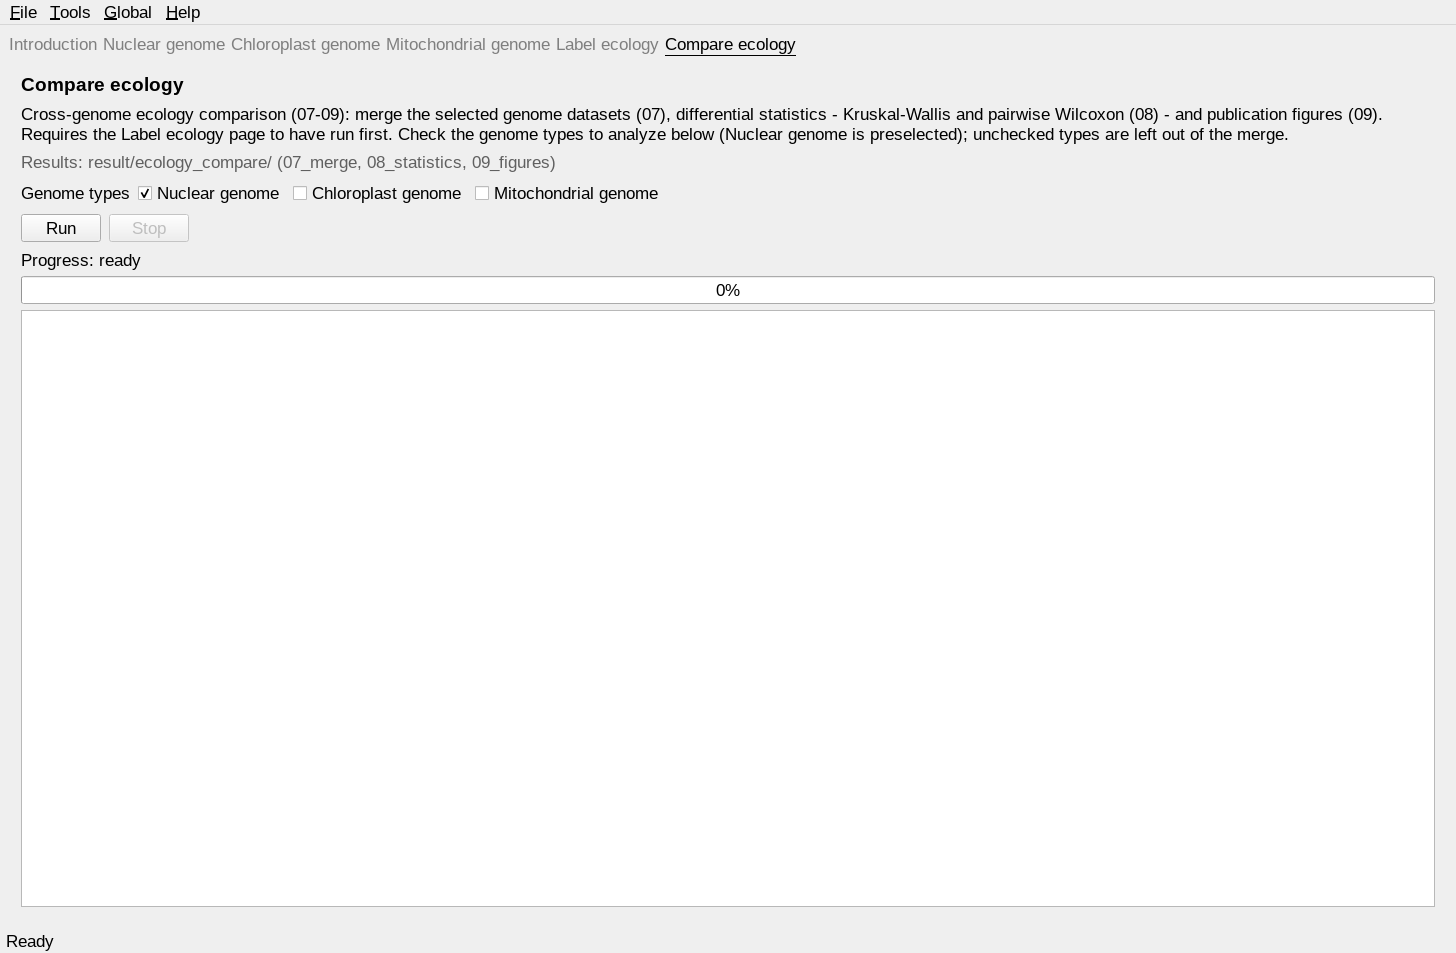
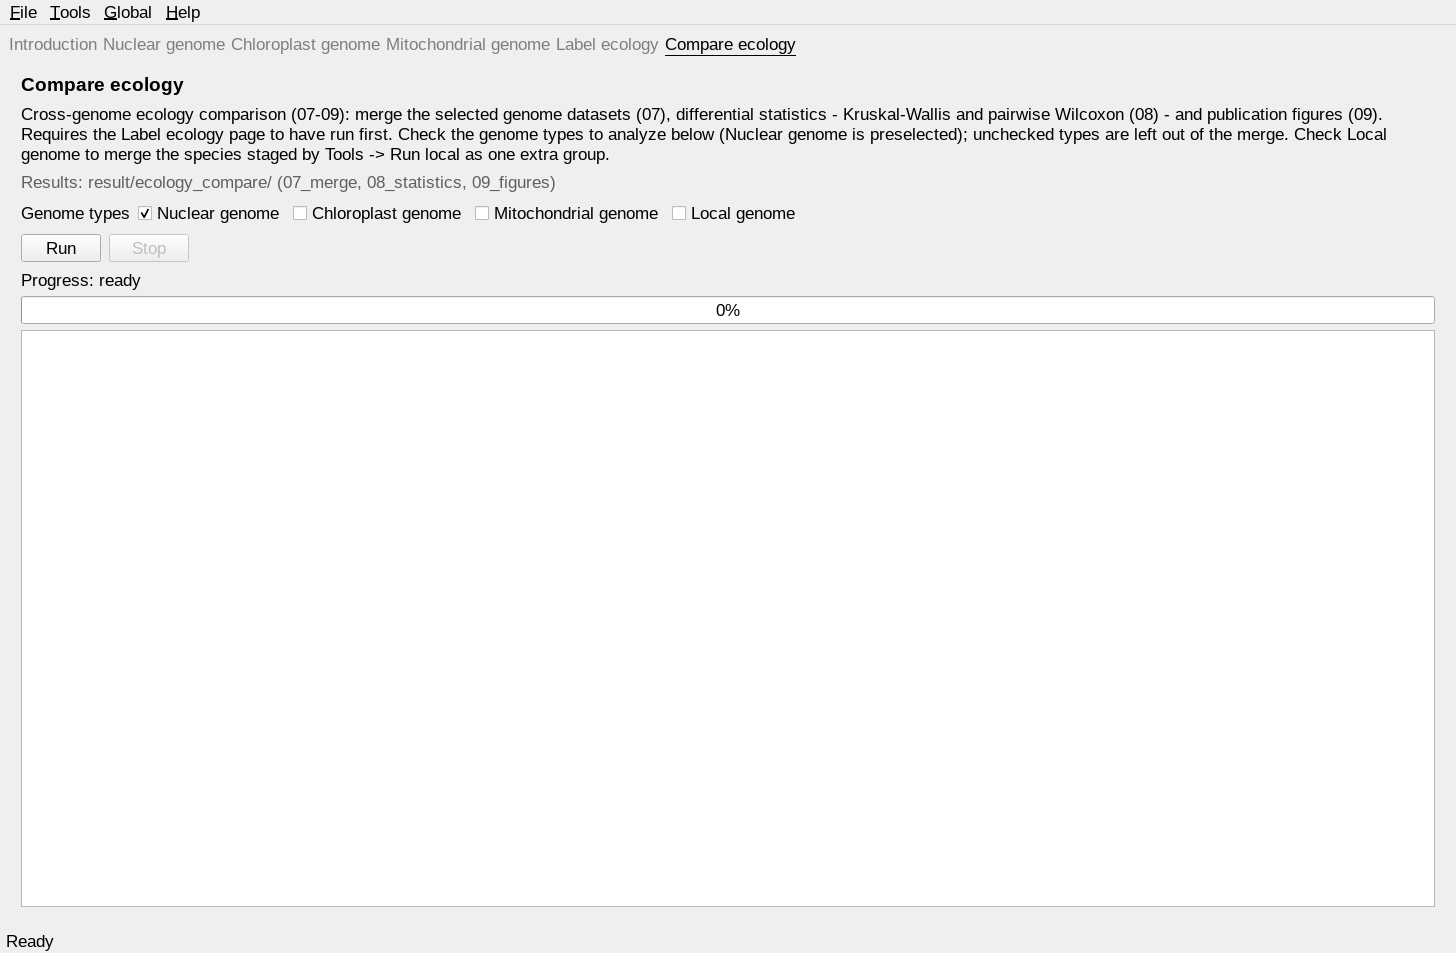
docs: v1.4.0 Local genome merging + publication-grade Compare ecology outputs

Changed region(s): [[0.0, 0.1522, 0.989, 0.3347], [0.8963, 0.1217, 0.9581, 0.1522]]

diff --git a/docs/conf.py b/docs/conf.py
@@ -9,8 +9,8 @@ author = "sunshadeCisseeker developers"
 copyright = "2026, sunshadeCisseeker developers"
 
 # The short X.Y version and the full release version.
-version = "v1.3.69"
-release = "v1.3.69"
+version = "v1.4.0"
+release = "v1.4.0"
 
 extensions = [
     "sphinx.ext.autosectionlabel",

diff --git a/docs/content/Ecology comparison.rst b/docs/content/Ecology comparison.rst
@@ -11,7 +11,8 @@ Label ecology (step 06)
 
 A standalone step between the per-genome pipelines and the comparison: it
 reads ``config/species_ecology_labels.xlsx`` — one sheet per genome type
-(``nuclear_genome`` / ``chloroplast_genome`` / ``mitochondrial_genome``;
+(``nuclear_genome`` / ``chloroplast_genome`` / ``mitochondrial_genome`` and,
+since v1.4.0, an optional ``local_genome`` sheet for the Run-local species;
 older single-sheet files apply to every type) — and the 05 id maps of the
 selected genome types, and writes ``species_ecology_assignment.xlsx``
 (``Assignment`` / ``Group_counts`` / ``Unlabeled`` sheets) under
@@ -20,18 +21,26 @@ source of ecology labels for steps 07–09, so label changes only require
 re-running this step and then 07–09. Unlabelled species are listed in the
 ``Unlabeled`` sheet and never enter the statistics.
 
-The **Label ecology** GUI page offers checkboxes for the three genome types:
-unchecked types are skipped (the run calls
+The **Label ecology** GUI page offers checkboxes for the three genome types
+plus **Local genome** (v1.4.0): unchecked types are skipped (the run calls
 ``run_all.sh label_ecology --label-types=<comma list>``; the command line
-accepts the same flag).
+accepts the same flag). *Local genome* labels the species staged by
+**Tools → Run local** (``result/local/<species>/``) as the pseudo genome
+type ``local_genome``; give it labels by adding a ``local_genome`` sheet to
+the label workbook. Without the flag, only the three physical types are
+labeled.
 
 Step 07 — merge
 ---------------
 
 The **Compare ecology** GUI page offers the same genome-type checkboxes as
-Label ecology (``run_all.sh ecology --ecology-types=<comma list>``): only
-the checked types are merged, and steps 08–09 follow the types present in
-the master table, so the comparison always matches the labeling selection.
+Label ecology, including **Local genome** (``run_all.sh ecology
+--ecology-types=<comma list>``): only the checked types are merged, and
+steps 08–09 follow the types present in the master table, so the comparison
+always matches the labeling selection. *Local genome* merges the isolated
+Run-local outputs under ``result/local/<species>/`` into the master table as
+``local_genome`` rows — every staged species joins the comparison alongside
+the NCBI/custom types.
 
 1. For each selected genome type, merge the per-species element counts
    (``Species_element_counts``) with the per-species **total promoter
@@ -67,6 +76,27 @@ tables in ``ecology_differential_results.xlsx``, plus
 ``ecology_differential_volcano.pdf`` (volcano of pairwise tests + boxplots of
 the top significant elements).
 
+Publication-ready tables (v1.4.0)
+~~~~~~~~~~~~~~~~~~~~~~~~~~~~~~~~~
+
+The same workbook additionally carries five export-ready sheets for a
+paper's supplementary tables, with descriptive column names, rows ordered
+by significance, rounded numerics and star-notation significance
+(``*`` q < 0.05, ``**`` q < 0.01, ``***`` q < 0.001, ``n.s.``):
+
+* ``Publication_Kruskal`` — Element, Functional group, Genome type,
+  Kruskal-Wallis chi-squared, df, group/species counts, P value,
+  BH-adjusted q, Significance;
+* ``Publication_Pairwise`` — per group pair: medians of both groups,
+  log2 fold change, Wilcoxon W, P value, BH-adjusted q, Significance;
+* ``Publication_Groups`` — per-group medians/means and species counts;
+* ``Publication_ratio_kruskal`` / ``Publication_ratio`` — the same layout
+  for the Box 4 / G-box ratio tests.
+
+The canonical sheets keep their full-precision machine-readable columns and
+additionally carry ``q_value``, ``significance`` and formatted ``p_value_text``
+/ ``q_value_text`` columns.
+
 Box 4 / G-box ratio analysis (light-response hypothesis)
 ---------------------------------------------------------
 
@@ -100,18 +130,29 @@ direction and strength of the trend can be read directly from
 Step 09 — publication figures
 -----------------------------
 
-A four-panel figure (``ecology_figures.pdf``):
+``ecology_figures.pdf`` is a single **portrait A4 figure** whose panels
+follow a logical analytical progression (v1.4.0):
 
-1. **PCA** of species × (compartment × element density) profiles
-   (``log1p``-transformed, scaled) — do the three ecology groups separate
-   along PC1/PC2?
-2. **Heatmap** of the 40 most variable elements, species rows ordered by
-   hierarchical clustering, values z-scored.
-3. **Functional-group composition** — stacked fractions of element density
-   per ecology group, using the ``functional_group`` column of the motif
-   library (hormone / light / stress / development / core / ...).
-4. **Key elements** — boxplots of the six elements with the smallest
-   Kruskal-Wallis p-values.
+1. **(a) Global differential landscape** — a volcano plot of every pairwise
+   test (log2 fold change vs ``-log10`` BH-adjusted q) with the significant
+   tests highlighted and the significant/total count annotated.
+2. **(b) Top differential elements** — boxplots of the up-to-six most
+   significant elements (ordered by BH-adjusted q), with the pairwise
+   Wilcoxon **q-value brackets and asterisks drawn on the panels** and the
+   per-element Kruskal-Wallis P in each panel title.
+3. **(c) Box 4 / G-box ratio test** — the per-species ratio per ecology
+   group, with the ratio statistics (Kruskal-Wallis P, pairwise q brackets)
+   drawn on the panel.
+4. **(d) Box 4 / G-box count decomposition** — the per-species counts of the
+   two elements, showing which of them drives the ratio, with per-element
+   Kruskal-Wallis P values annotated.
+
+``box4_gbox_ratio.pdf`` is a focused two-panel portrait A4 figure (panels
+c + d) dedicated to the light-response hypothesis. Panels share one
+colourblind-safe palette (sun orange, facultative blue, shade green), Arial
+typography, and the asterisk thresholds are restated in each figure caption.
+Count/density/ratio axes use a pseudo-log scale (linear below 1) so zero
+values stay visible.
 
 Interpreting the results
 ------------------------
@@ -119,7 +160,10 @@ Interpreting the results
 * ``Kruskal_Wallis`` — a small BH-adjusted p means the three ecology groups
   differ in that element's density.
 * ``Pairwise_Wilcoxon`` — per group pair: ``median1``/``median2``,
-  ``log2FC``, ``p_value``, ``bh_padj``, ``significant`` (BH < 0.05).
+  ``log2FC``, ``p_value``, ``bh_padj``/``q_value``, ``significant``
+  (BH < 0.05) and the ``significance`` star column.
+* The ``Publication_*`` sheets are the copy-paste-ready versions of those
+  tables for a manuscript's supplementary tables.
 * Raise ``min_group_n`` for stricter comparisons (fewer, more robust tests).
 * ``element_density`` is a per-1000-promoter rate: values are comparable
   across species and compartments.

diff --git a/docs/content/Changelog.rst b/docs/content/Changelog.rst
@@ -1,6 +1,40 @@
 Changelog
 =========
 
+1.4.0 — Local genome merging + publication-grade Compare ecology outputs
+--------------------------------------------------------------------------
+
+* **Local genome checkbox**: the Label ecology and Compare ecology pages
+  gain a *Local genome* checkbox. When checked, the species staged by
+  **Tools → Run local** (``result/local/<species>/``) join the ecology
+  pipeline as the pseudo genome type ``local_genome``: step 06 labels them
+  (from an optional ``local_genome`` sheet in
+  ``config/species_ecology_labels.xlsx``), step 07 merges their 05/06
+  outputs into the master table, and steps 08/09 treat them like any other
+  genome type. Off by default; flag-less runs keep the classic three-type
+  behaviour.
+* **Publication-grade statistics tables (step 08)**: the results workbook
+  gains five export-ready sheets for a paper's supplementary tables -
+  ``Publication_Kruskal``, ``Publication_Pairwise``, ``Publication_Groups``,
+  ``Publication_ratio_kruskal`` and ``Publication_ratio`` - with descriptive
+  column names, rows ordered by significance, rounded numerics, and
+  star-notation significance (``*``/``**``/``***``/``n.s.``). The canonical
+  sheets keep their full-precision machine-readable columns and additionally
+  carry ``q_value``, ``significance`` and formatted ``*_text`` p-value
+  columns.
+* **Publication-grade figure (step 09)**: ``ecology_figures.pdf`` is now a
+  single portrait A4 figure with four panels in a logical analytical
+  progression - (a) global differential landscape (volcano), (b) top
+  differential elements with pairwise BH q-value brackets and per-element
+  Kruskal-Wallis P annotations drawn on the panels, (c) the Box 4 / G-box
+  ratio test, and (d) the Box 4 / G-box count decomposition showing which
+  element drives the ratio. ``box4_gbox_ratio.pdf`` is a focused two-panel
+  portrait A4 figure for the light-response hypothesis. Colourblind-safe
+  palette, Arial typography, asterisk thresholds noted in the captions.
+* The Compare-ecology end-to-end suite now asserts the publication sheets,
+  the A4 page geometry, and a new ``e2e_local_ecology_1400`` suite covers
+  the Run-local → Label ecology → Compare ecology chain.
+
 1.3.69 — Box 4 / G-box ratio loop no longer clobbers the KW tables
 --------------------------------------------------------------------
 

diff --git a/docs/content/GUI.rst b/docs/content/GUI.rst
@@ -35,9 +35,9 @@ There are exactly six sliding pages, in this order:
    * - **Mitochondrial genome**
      - runs the mitochondrial part (steps 01-06)
    * - **Label ecology**
-     - assigns the sun/facultative/shade labels to the merged datasets (cross-genome step 06), one label sheet per genome type; checkboxes select the types to label
+     - assigns the sun/facultative/shade labels to the merged datasets (cross-genome step 06), one label sheet per genome type; checkboxes (incl. Local genome) select the types to label
    * - **Compare ecology**
-     - runs the cross-genome ecology comparison (steps 07-09; requires Label ecology first); checkboxes select the genome types to merge
+     - runs the cross-genome ecology comparison (steps 07-09; requires Label ecology first); checkboxes (incl. Local genome) select the genome types to merge
 
 Each analysis page shows the step description, the result directory hint and
 a live log panel. The three genome pages additionally offer an **NCBI API key
@@ -50,10 +50,13 @@ with ``2`` (skips oversized archives such as the ~2.7 GB *Tanacetum
 coccineum* genome). Clearing the field means no limit (the empty value
 persists), while a *missing* key defaults to ``2`` again on the next
 ``run_all.sh`` launch. The **Label ecology** and **Compare ecology** pages
-additionally offer the three genome-type checkboxes (only **Nuclear genome**
-starts checked): they become the ``--label-types`` / ``--ecology-types``
-flags of the respective runs, so both steps analyze exactly the selected
-genome types. A screenshot of every
+additionally offer genome-type checkboxes (only **Nuclear genome** starts
+checked): they become the ``--label-types`` / ``--ecology-types`` flags of
+the respective runs, so both steps analyze exactly the selected genome
+types. Since v1.4.0 a fourth checkbox, **Local genome**, merges the species
+staged by *Tools → Run local* (``result/local/<species>/``) into the
+labeling and the comparison as the pseudo type ``local_genome`` (label them
+via a ``local_genome`` sheet in the label workbook). A screenshot of every
 page and popup, with explanations, is on the :doc:`Screenshots` page.
 
 Menu bar

diff --git a/docs/content/Screenshots.rst b/docs/content/Screenshots.rst
@@ -57,13 +57,15 @@ editors and the remaining functions.
    The **Label ecology** page (cross-genome step 06): assigns the
    ``sun`` / ``facultative`` / ``shade`` labels from
    ``config/species_ecology_labels.xlsx`` (one sheet per genome type:
-   ``nuclear_genome`` / ``chloroplast_genome`` / ``mitochondrial_genome``)
-   to the merged NCBI+custom datasets and writes
+   ``nuclear_genome`` / ``chloroplast_genome`` / ``mitochondrial_genome``
+   and, since v1.4.0, an optional ``local_genome`` sheet for the Run-local
+   species) to the merged NCBI+custom datasets and writes
    ``result/ecology_compare/06_label_ecology/species_ecology_assignment.xlsx``
    (``Assignment`` / ``Group_counts`` / ``Unlabeled`` sheets) — the single
-   label source for the comparison. The three **genome-type checkboxes**
-   select which types get labeled (only **Nuclear genome** starts checked;
-   unchecked types are skipped). Run it
+   label source for the comparison. The **genome-type checkboxes** select
+   which types get labeled (only **Nuclear genome** starts checked;
+   unchecked types are skipped); **Local genome** additionally labels the
+   species staged by Tools → Run local. Run it
    after the genome pages and before Compare ecology; re-run only this page
    after editing the label table.
 
@@ -73,9 +75,10 @@ editors and the remaining functions.
    The **Compare ecology** page runs steps 07–09: merge the selected genome
    datasets into the ecology master table (07), differential statistics —
    Kruskal-Wallis plus pairwise Wilcoxon with Benjamini-Hochberg correction
-   (08) — and the publication figures (09). The three genome-type checkboxes
+   (08) — and the publication figures (09). The genome-type checkboxes
    match the Label ecology page (only **Nuclear genome** starts checked):
-   unchecked types are left out of the merge.
+   unchecked types are left out of the merge, and **Local genome** merges
+   the Tools → Run local species as one extra group.
    It requires the Label ecology page to have run first. Results land under
    ``result/ecology_compare/``.
 

diff --git a/docs/content/Outputs.rst b/docs/content/Outputs.rst
@@ -40,13 +40,13 @@ Ecology comparison outputs
    * - ``result/ecology_compare/07_merge/ecology_master_dataset.xlsx``
      - ``Master_long`` / ``Species_summary`` / ``Element_species`` / ``Group_species_n``
    * - ``result/ecology_compare/08_statistics/ecology_differential_results.xlsx``
-     - ``Kruskal_Wallis`` / ``Pairwise_Wilcoxon`` / ``Group_summary`` plus the Box 4 / G-box ratio analysis: ``Box4_Gbox_species`` (per-species Box 4 and G-box counts and their ratio), ``Box4_Gbox_kruskal``, ``Box4_Gbox_tests`` (pairwise Wilcoxon + BH) and ``Box4_Gbox_groups``
+     - ``Kruskal_Wallis`` / ``Pairwise_Wilcoxon`` / ``Group_summary`` plus the Box 4 / G-box ratio analysis (``Box4_Gbox_species`` / ``Box4_Gbox_kruskal`` / ``Box4_Gbox_tests`` / ``Box4_Gbox_groups``) and, since v1.4.0, five publication-ready supplementary tables (``Publication_Kruskal`` / ``Publication_Pairwise`` / ``Publication_Groups`` / ``Publication_ratio_kruskal`` / ``Publication_ratio``) with descriptive column names, significance ordering and star notation
    * - ``result/ecology_compare/08_statistics/ecology_differential_volcano.pdf``
      - volcano of pairwise tests + top significant element boxplots
    * - ``result/ecology_compare/09_figures/ecology_figures.pdf``
-     - PCA + heatmap + functional-group composition + key elements
+     - single portrait A4 figure, panels (a) global differential landscape, (b) top differential elements with pairwise q-value brackets, (c) Box 4 / G-box ratio test, (d) Box 4 / G-box count decomposition
    * - ``result/ecology_compare/09_figures/box4_gbox_ratio.pdf``
-     - Box 4 / G-box count ratio per ecology group and genome type (boxplots, log10 scale)
+     - focused portrait A4 figure for the light-response hypothesis (ratio panels + count decomposition)
 
 Core metric
 -----------

diff --git a/docs/content/About sunshadeCisseeker.rst b/docs/content/About sunshadeCisseeker.rst
@@ -4,7 +4,7 @@ About sunshadeCisseeker
 sunshadeCisseeker identifies, annotates and compares promoter
 cis-regulatory elements across sun / facultative / shade plants.
 
-The current release is **1.3.69**.
+The current release is **1.4.0**.
 
 Highlights
 ----------
